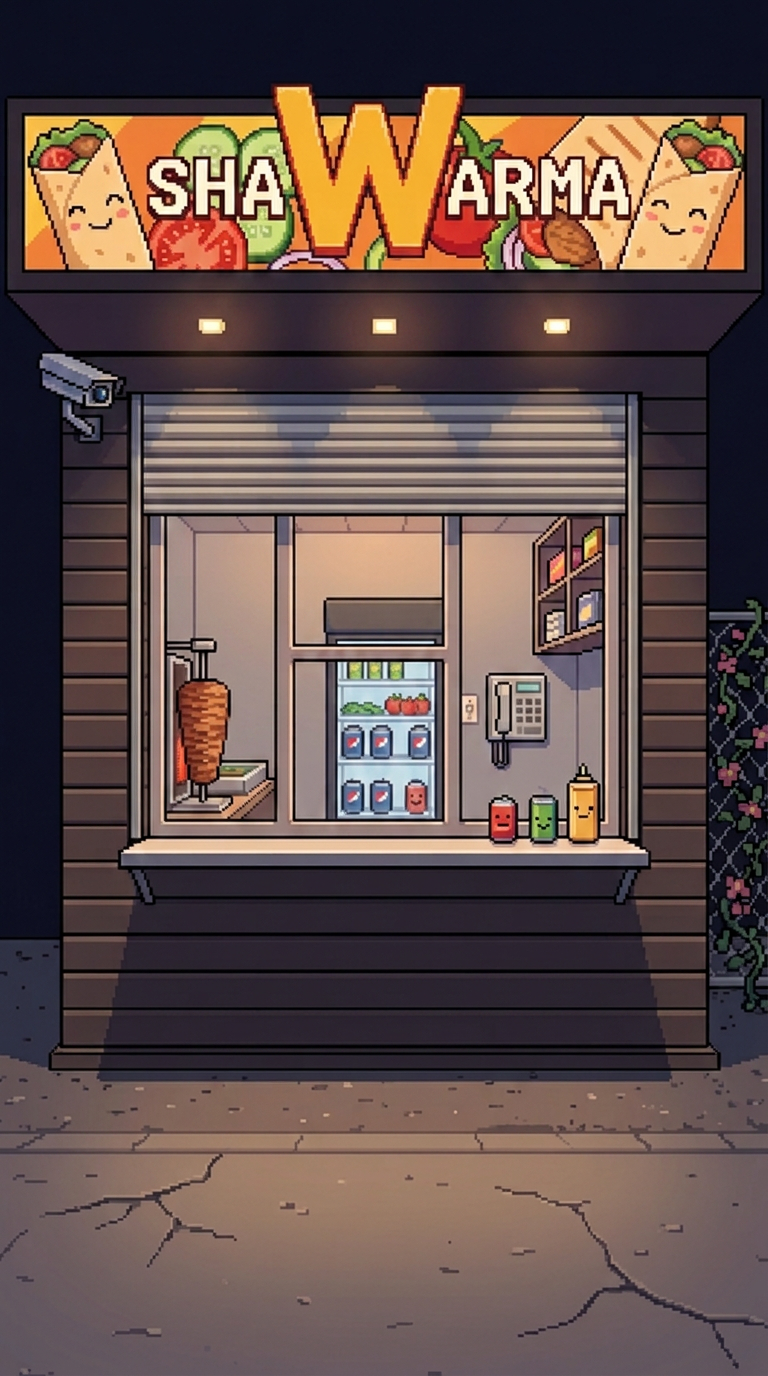
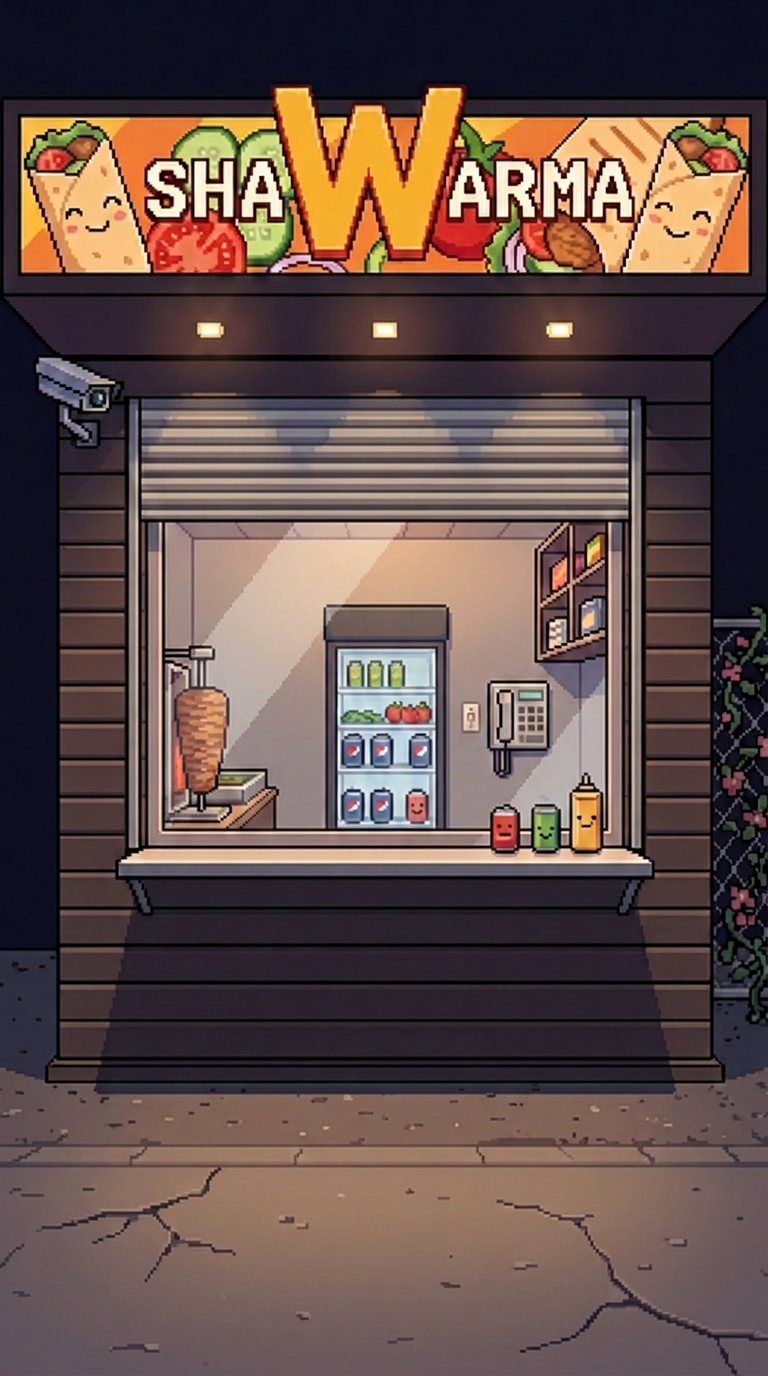
feat(shawarma): repainted kiosk, and Eren stands taller in the window
New kiosk art (single open serving window, centred fridge) replaces the
paned version. Its counter sits 10px lower than the old one, so the clip
line is re-measured off the new PNG (row 849 of 1376) and the letterbox
bands re-sampled from its edges.

Eren was cut at the chin — a head resting on a ledge. He now clears the
counter by 0.64 of his box, which lands the cut under his chest and above
the front paws. The picture reference carries ?v=2 because the service
worker serves images stale-while-revalidate and would otherwise keep
showing the old kiosk.

diff --git a/src/app/(app)/shawarma/page.tsx b/src/app/(app)/shawarma/page.tsx
@@ -6,7 +6,7 @@
 // Same presentation contract as the bakery: the picture is shown WHOLE (fit
 // to width) over a blurred copy of itself, so nothing of the kiosk is ever
 // cropped. The letterbox bands above and below are painted in the picture's
-// own measured edge colours (night sky #0C0E1F on top, asphalt #63565F
+// own measured edge colours (night sky #0B0D1E on top, asphalt #65555C
 // below — sampled off the PNG, not eyeballed) so the art reads as extending
 // to the screen edges instead of sitting in bars.
 //
@@ -27,24 +27,28 @@ import { requestCloudNav } from '@/components/CloudTransition'
 
 // Intrinsic size of /ShawarmaKiosk.png. Drives the stage aspect ratio and
 // the letterbox band height, so swapping in a repaint at a different size
-// only needs these two numbers changed.
-const PIC = { src: '/ShawarmaKiosk.png', w: 768, h: 1376 }
+// only needs these two numbers changed. The ?v= is a cache-bust: the service
+// worker serves images stale-while-revalidate, so a repaint dropped at the
+// same path shows the OLD art until the query changes.
+const PIC = { src: '/ShawarmaKiosk.png?v=2', w: 768, h: 1376 }
 
 // Averaged over the top 6 / bottom 6 rows of the PNG.
-const SKY_EDGE = '#0C0E1F'
-const ASPHALT_EDGE = '#63565F'
+const SKY_EDGE = '#0B0D1E'
+const ASPHALT_EDGE = '#65555C'
 
 // First row of the serving counter's lit top surface, from a column scan of
-// the PNG (row 839 of 1376) — NOT the front lip a dozen rows lower, which
+// the PNG (row 849 of 1376) — NOT the front lip a dozen rows lower, which
 // would paint Eren over the counter and read as him standing in front of it.
-const COUNTER_PCT = 60.97
+const COUNTER_PCT = 61.70
 // Eren's box, sized in cqi (container-query inline-size = % of the PICTURE's
 // width, see the stage's containerType) so he tracks the picture and stays
 // glued to the counter. vw would balloon him on a short/wide viewport, where
 // the picture goes height-constrained and is narrower than the screen.
 const EREN_CQI = 32
-// How much of him clears the counter: half — chef hat, face and chest.
-const EREN_SHOW = 0.5
+// How much of him clears the counter. Half cut him at the chin — a head on a
+// ledge. 0.64 lands the cut under his chest, just above the front paws, so he
+// stands at the window like someone actually serving.
+const EREN_SHOW = 0.64
 const EREN_BOTTOM = `${-(1 - EREN_SHOW) * EREN_CQI}cqi`
 
 // ErenCook.png (chef-hat pose) eye coords — the same measured layout the
